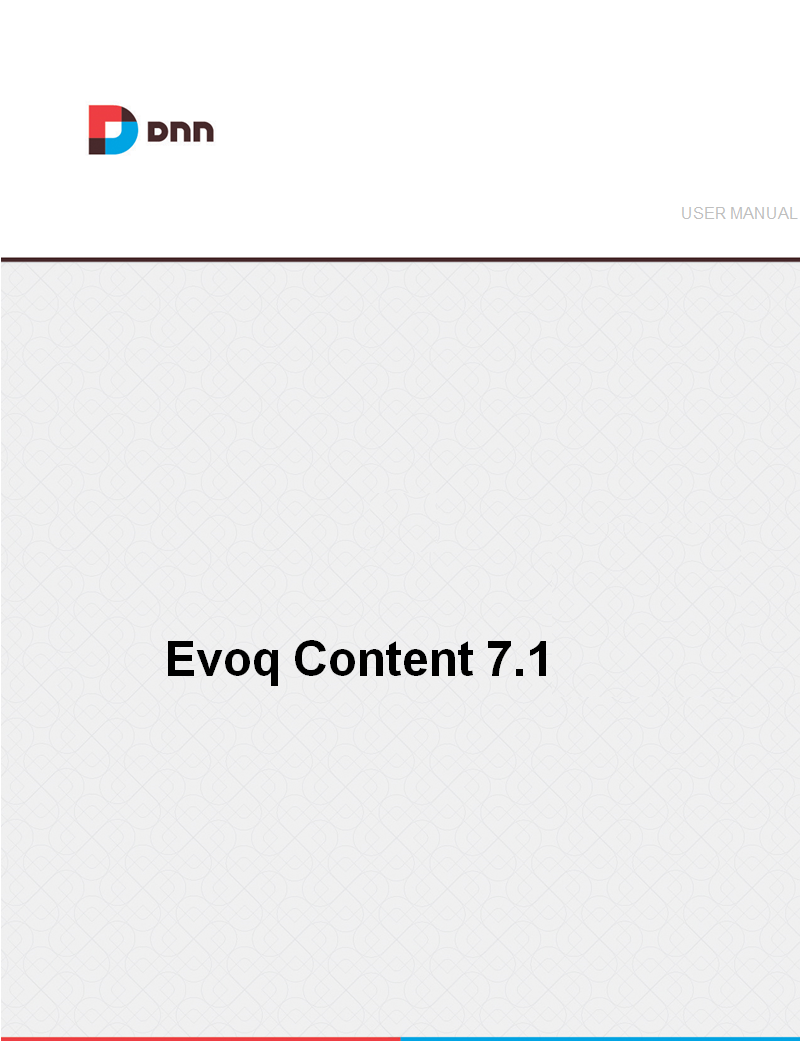
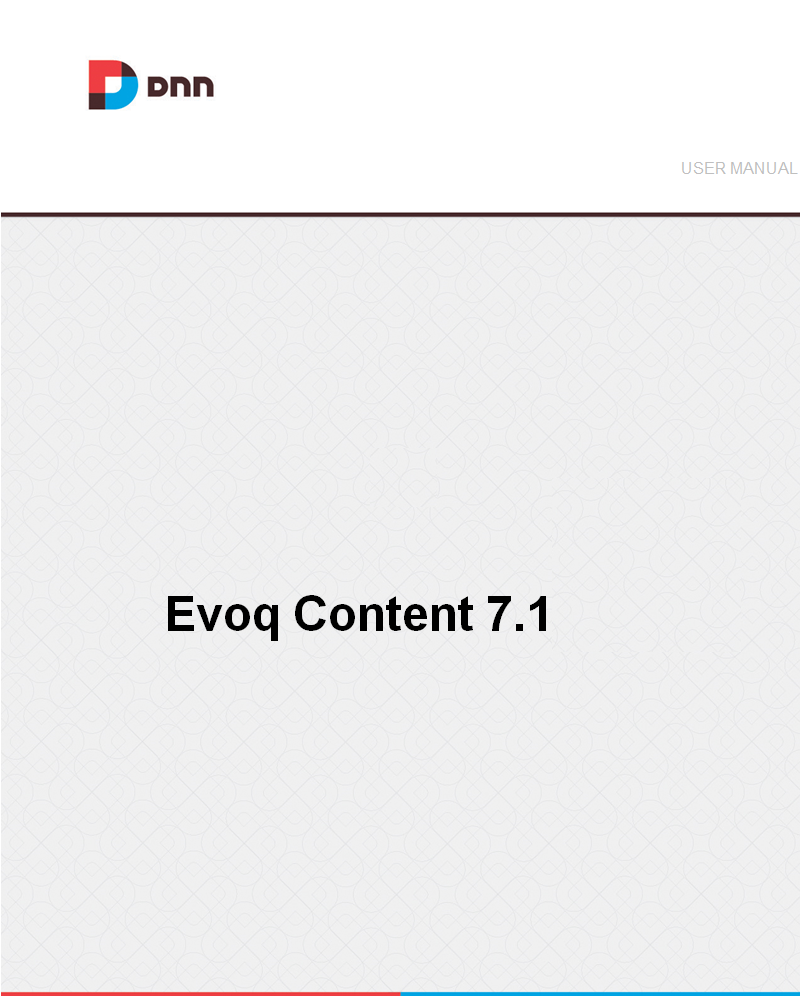
Produce Evoq Content and Evoq Content Enterprise 7.1.2 manuals. Evoq Social: Wiki Update request from ChrisP.

diff --git a/Documentation/Building Your Site/Installed Modules/HTML/Module Editors/Editing Content Inline.htm b/Documentation/Building Your Site/Installed Modules/HTML/Module Editors/Editing Content Inline.htm
@@ -1,0 +1,22 @@
+<?xml version="1.0" encoding="utf-8"?>
+<html xmlns:MadCap="http://www.madcapsoftware.com/Schemas/MadCap.xsd" MadCap:lastBlockDepth="4" MadCap:lastHeight="868" MadCap:lastWidth="1001">
+    <head>
+    </head>
+    <body>
+        <h1>Editing Content Inline</h1>
+        <p>How to perform inline content editing including basic font and paragraph tools and link insertion using the HTML module. Note: If this setting has been disabled, content can instead be edited via the module action menu.</p>
+        <ol>
+            <li>Place your mouse over the module content to access the <b>Edit </b><img alt="" src="../../../../Resources/Images/Icons/Edit_inline.png" /> button.</li>
+        </ol>
+        <p>
+            <img src="../../../../Resources/Images/Modules/HTML/HTML_EditContentInline1.png" />
+        </p>
+        <ol MadCap:continue="true">
+            <li>Click the <b>Edit</b> <img alt="" src="../../../../Resources/Images/Icons/Edit_inline.png" /> button to enable content editing and then edit the content as required.</li>
+            <li>Click the <b>Save</b> <img src="../../../../Resources/Images/Icons/save.png" /> button to save your changes. &#160;Content edits are only saved when you press this button. - OR - Click the <b>Cancel</b> <img alt="" src="../../../../Resources/Images/Icons/cancel_inline.png" /> button to cancel your changes.</li>
+        </ol>
+        <p>
+            <img src="../../../../Resources/Images/Modules/HTML/HTML_EditContentInline2.png" />
+        </p>
+    </body>
+</html>

diff --git a/Documentation/DNNCorp.htm b/Documentation/DNNCorp.htm
@@ -1,0 +1,10 @@
+<?xml version="1.0" encoding="utf-8"?>
+<html xmlns:MadCap="http://www.madcapsoftware.com/Schemas/MadCap.xsd" MadCap:lastBlockDepth="2" MadCap:lastHeight="348" MadCap:lastWidth="666">
+    <head>
+    </head>
+    <body>
+        <h1>About DNN Corp</h1>
+        <p>DNN Corp. is the steward of the DNN open source project, the most widely adopted Web Content management Platform for building websites and web applications on Microsoft .NET. Organizations use DNN to quickly develop and deploy interactive and dynamic websites, intranets, extranets and web applications.</p>
+        <p>The DNN platform is available in a free <a href="http://www.dnnsoftware.com/Solutions" target="_blank">DNN&#160;Platform</a> and the subscription-based <a href="http://www.dnnsoftware.com/Solutions/Evoq-Content" target="_blank">Evoq Content</a> and <a href="http://www.dnnsoftware.com/Solutions" target="_blank">Evoq Content Enterprise</a> with an Elite Support option. DNN Corp. also operates the DNN Store (<a href="http://store.dnnsoftware.com/" target="_blank">http://store.dnnsoftware.com/</a>) where users purchase third party software apps for the platform. Founded in 2006 and funded by Sierra Ventures, August Capital and Pelion Venture Partners, DNN Corp. is headquartered in San Mateo, Calif.</p>
+    </body>
+</html>

diff --git a/Documentation/Building Your Site/AddingSiteContent.htm b/Documentation/Building Your Site/AddingSiteContent.htm
@@ -1,0 +1,9 @@
+<?xml version="1.0" encoding="utf-8"?>
+<html xmlns:MadCap="http://www.madcapsoftware.com/Schemas/MadCap.xsd" MadCap:lastBlockDepth="2" MadCap:lastHeight="180" MadCap:lastWidth="1393">
+    <head>
+    </head>
+    <body>
+        <h1>Adding Site Content</h1>
+        <p>This section details how to add content to your site using both the modules that are included with DNN and the free project modules that can be downloaded from <a href="https://www.codeplex.com/" target="_blank">https://www.codeplex.com</a>. You will find direct links to download project modules listed below the description of the module.</p>
+    </body>
+</html>

diff --git a/Documentation/Advanced Site Management/AdvancedSiteManagement.htm b/Documentation/Advanced Site Management/AdvancedSiteManagement.htm
@@ -1,0 +1,9 @@
+<?xml version="1.0" encoding="utf-8"?>
+<html xmlns:MadCap="http://www.madcapsoftware.com/Schemas/MadCap.xsd" MadCap:lastBlockDepth="2" MadCap:lastHeight="180" MadCap:lastWidth="1319">
+    <head>
+    </head>
+    <body>
+        <h1>Advanced Site Management</h1>
+        <p>This section explores some ways to extend and maximize your site's potential such as making your site accessible to an international audience and across a range of mobile devices or how to harness the potential of social collaboration.</p>
+    </body>
+</html>

diff --git a/Documentation/CoverPages/EvoqContentEnterprise.htm b/Documentation/CoverPages/EvoqContentEnterprise.htm
@@ -1,9 +1,8 @@
 <?xml version="1.0" encoding="utf-8"?>
-<html xmlns:MadCap="http://www.madcapsoftware.com/Schemas/MadCap.xsd" MadCap:lastBlockDepth="2" MadCap:lastHeight="912" MadCap:lastWidth="901">
+<html xmlns:MadCap="http://www.madcapsoftware.com/Schemas/MadCap.xsd" MadCap:lastBlockDepth="2" MadCap:lastHeight="835" MadCap:lastWidth="1105">
     <head>
     </head>
     <body>
         <img src="../Resources/Images/CoverArt/EvoqContentEnterprise710.png" />
-        <p>&#160;</p>
     </body>
 </html>

diff --git a/Documentation/Using Common Tools/CommonTools.htm b/Documentation/Using Common Tools/CommonTools.htm
@@ -1,0 +1,9 @@
+<?xml version="1.0" encoding="utf-8"?>
+<html xmlns:MadCap="http://www.madcapsoftware.com/Schemas/MadCap.xsd" MadCap:lastBlockDepth="2" MadCap:lastHeight="154" MadCap:lastWidth="1319">
+    <head>
+    </head>
+    <body>
+        <h1>Common Tools</h1>
+        <p>An overview of common tools that are used across a number of modules and site management areas</p>
+    </body>
+</html>
